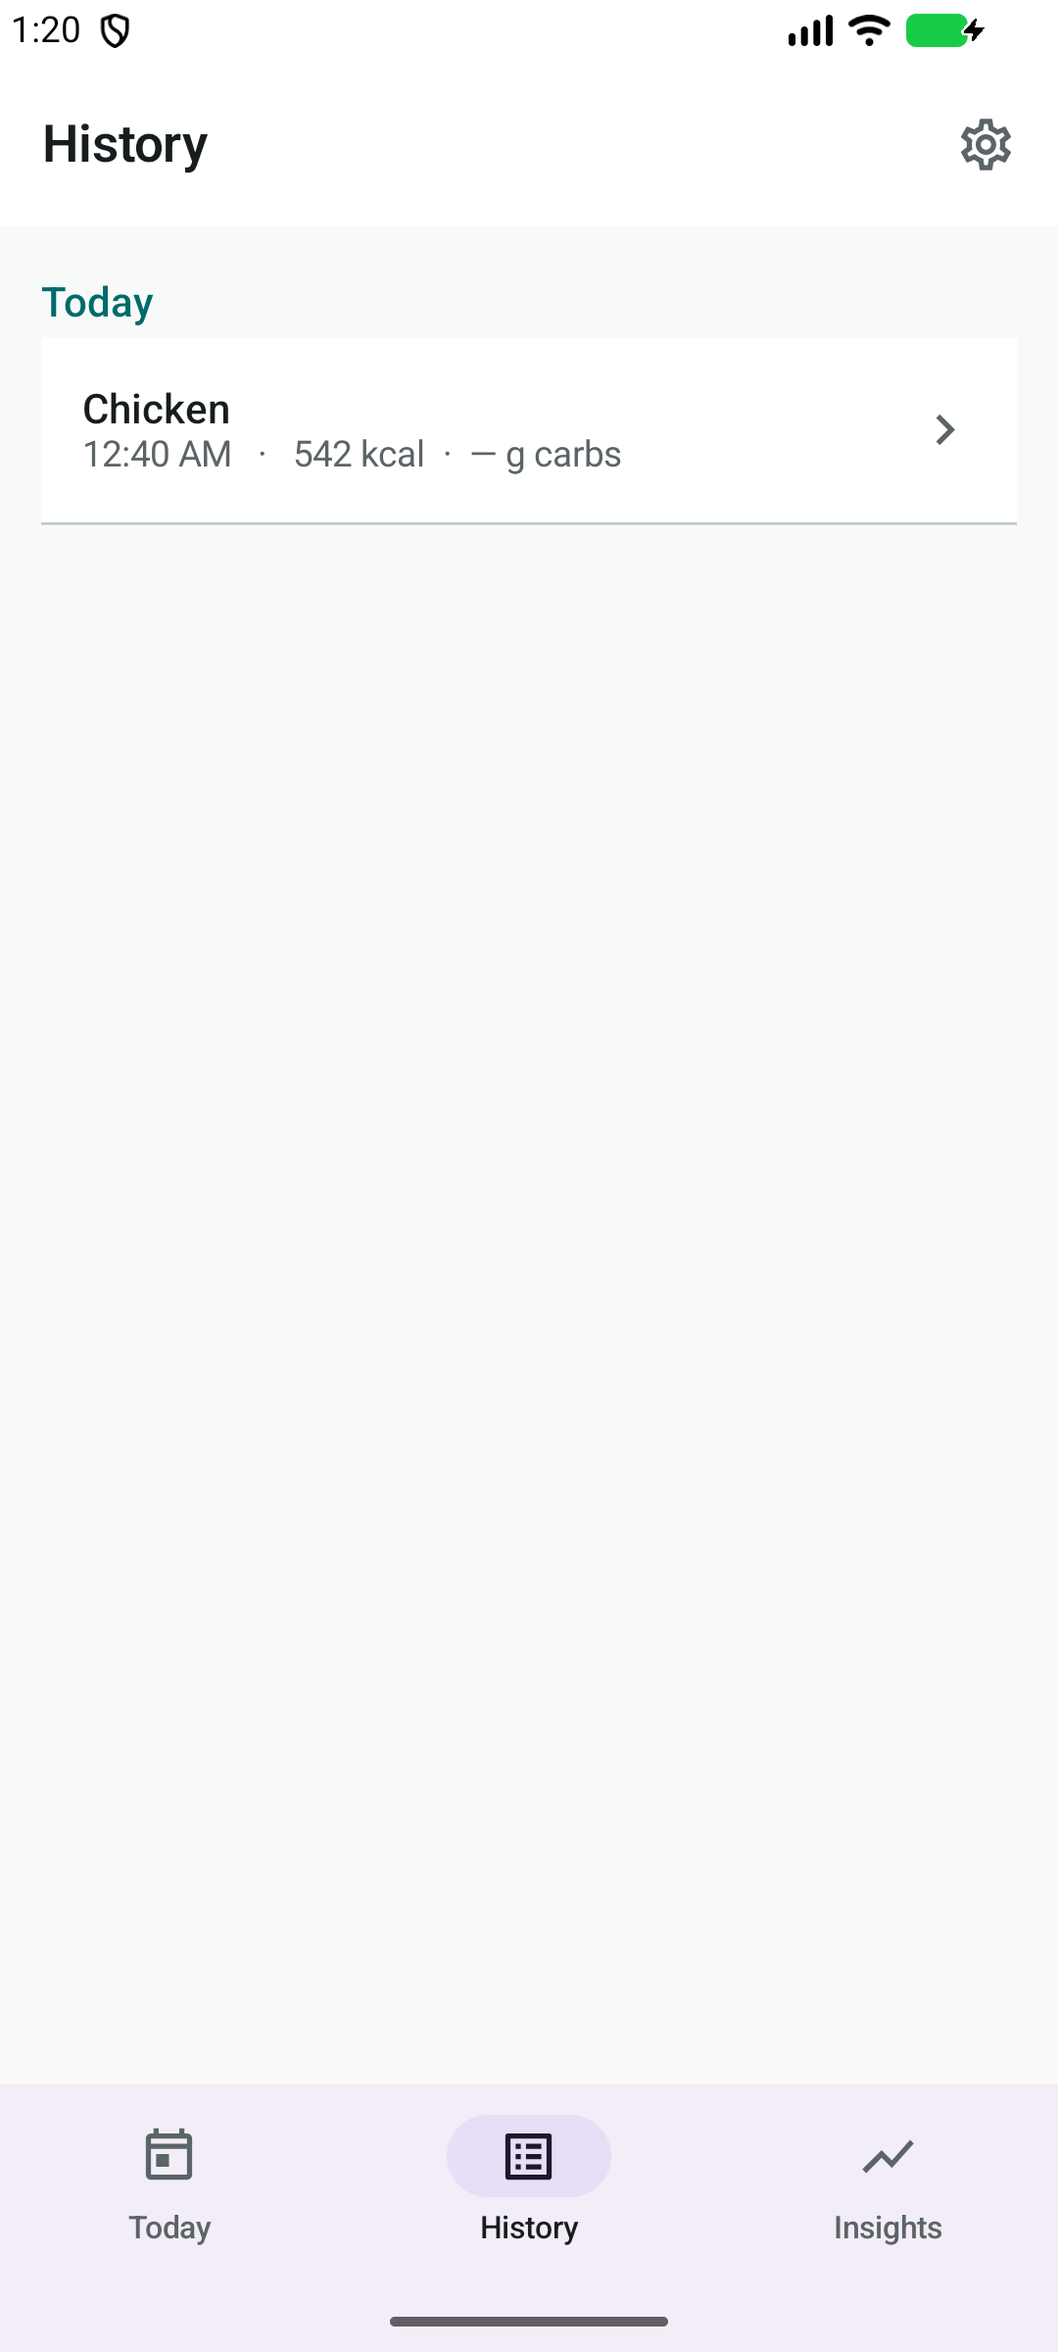
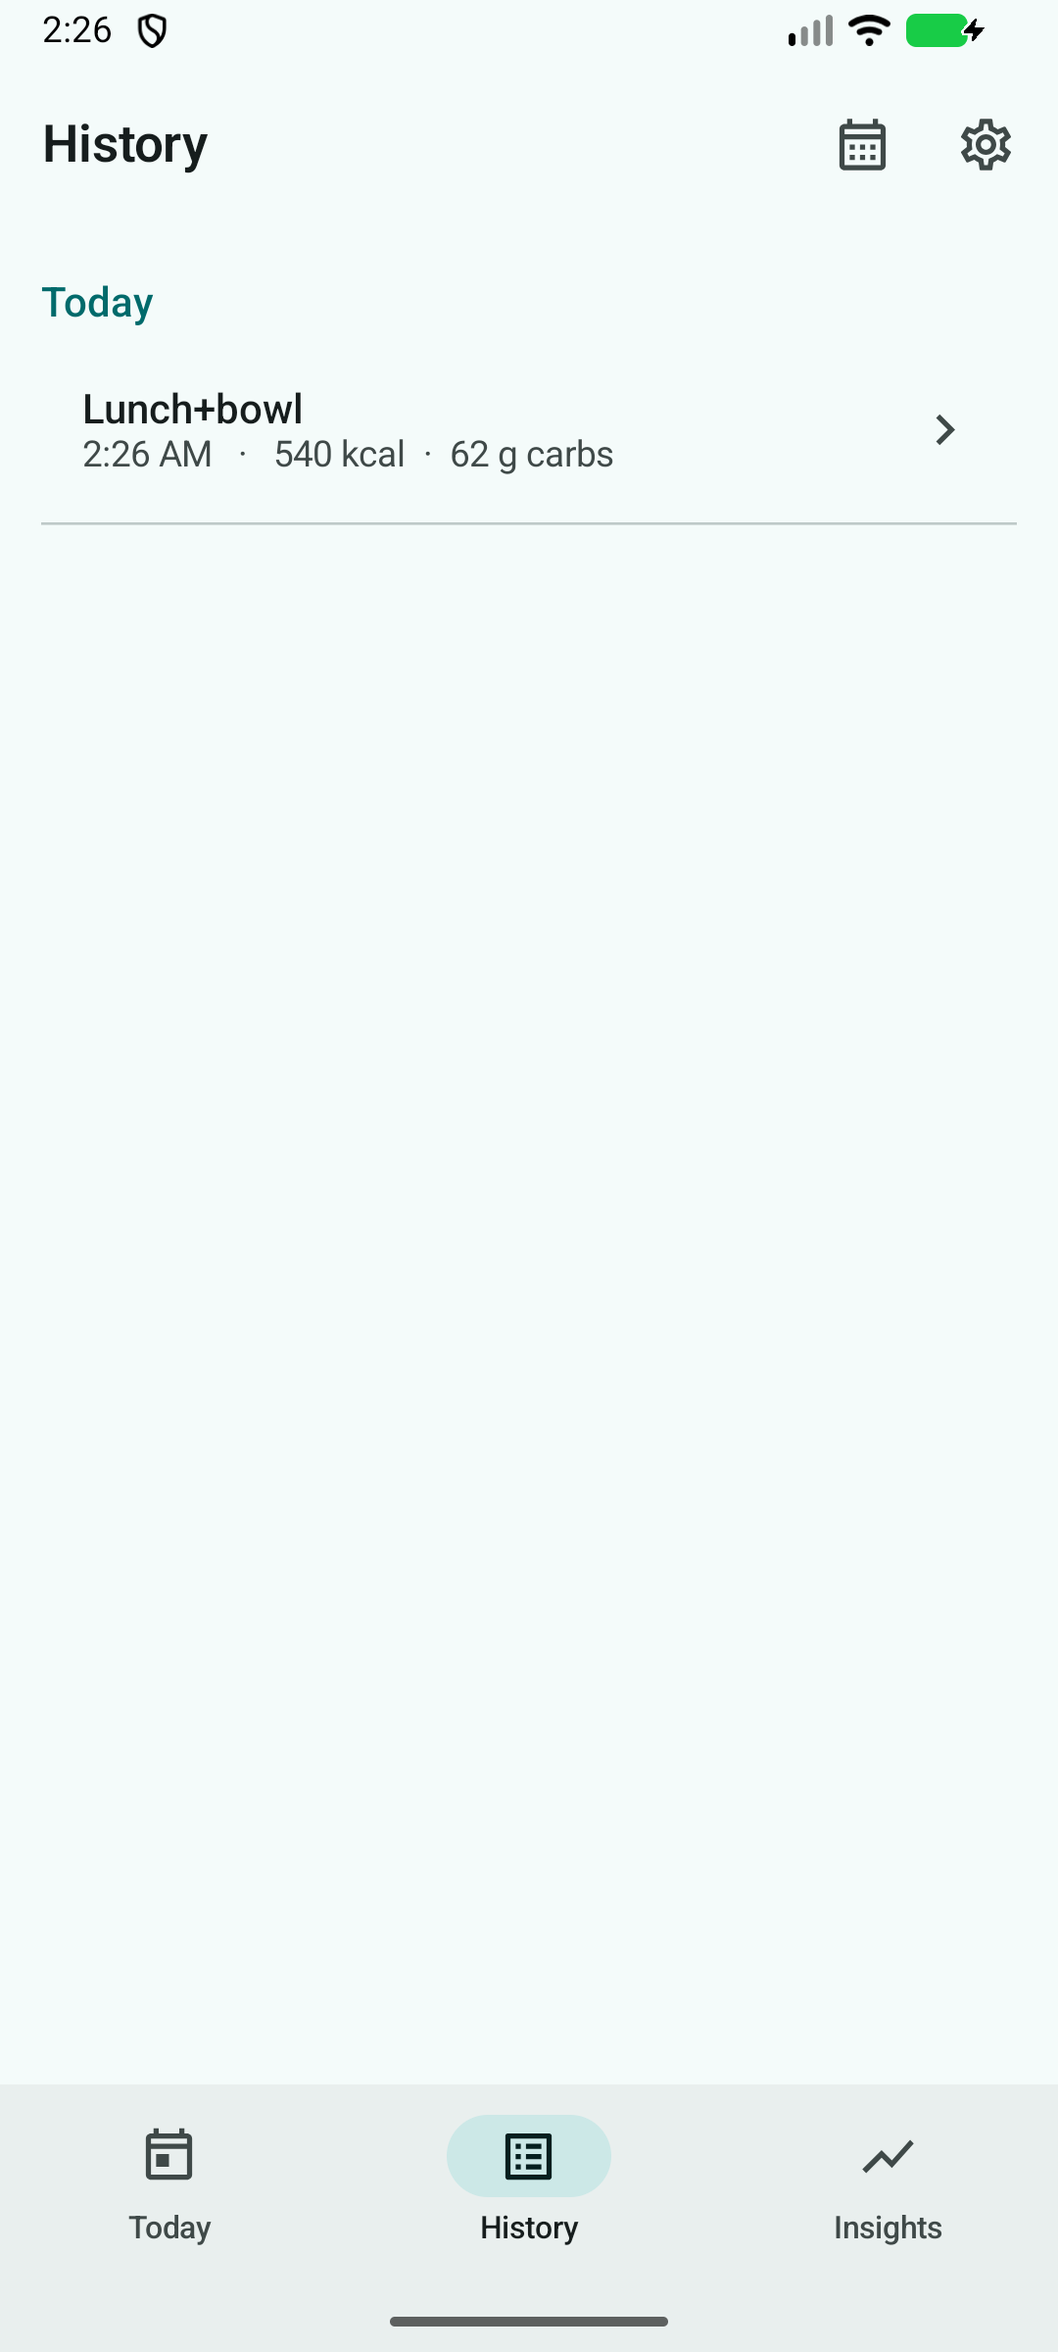
Add History date filter and a blank glucose boundary
History: a date-filter action in the app bar opens a date picker to show a
single day; a clearable chip reflects the active filter, an honest "no meals on
this day" state offers to clear it, and the filter icon is disabled when there
is no history. The list uses a remembered LazyColumn state.

Glucose: add a typed GlucosePredictor boundary as a blank reference —
Unavailable / MissingInput / Failed outcomes with only an
UnavailableGlucosePredictor today, wired through AppGraph and read by Insights
(still an honest unavailable state, nothing simulated). A real model drops in
behind the same interface later.

Tests: HistoryViewModelTest covers the filter, the filtered-empty state, and
timezone-aware day grouping (a UTC instant grouped by a New York clock lands on
the previous local day). Design doc records measured WCAG contrast (all >= AA)
and the glucose boundary. testDebugUnitTest 80, 0 skipped; lintDebug clean.

diff --git a/android/app/src/main/java/com/example/guione/meal/ui/HistoryScreen.kt b/android/app/src/main/java/com/example/guione/meal/ui/HistoryScreen.kt
@@ -1,30 +1,44 @@
 package com.example.guione.meal.ui
 
-import androidx.compose.foundation.layout.Box
+import androidx.compose.foundation.layout.Row
 import androidx.compose.foundation.layout.fillMaxSize
 import androidx.compose.foundation.layout.fillMaxWidth
 import androidx.compose.foundation.layout.padding
 import androidx.compose.foundation.lazy.LazyColumn
 import androidx.compose.foundation.lazy.items
+import androidx.compose.foundation.lazy.rememberLazyListState
 import androidx.compose.material.icons.Icons
 import androidx.compose.material.icons.automirrored.outlined.ListAlt
+import androidx.compose.material.icons.outlined.CalendarMonth
+import androidx.compose.material.icons.outlined.Close
 import androidx.compose.material.icons.outlined.Settings
+import androidx.compose.material3.DatePicker
+import androidx.compose.material3.DatePickerDialog
 import androidx.compose.material3.ExperimentalMaterial3Api
+import androidx.compose.material3.FilterChip
 import androidx.compose.material3.HorizontalDivider
 import androidx.compose.material3.Icon
 import androidx.compose.material3.IconButton
 import androidx.compose.material3.MaterialTheme
 import androidx.compose.material3.Scaffold
 import androidx.compose.material3.Text
+import androidx.compose.material3.TextButton
 import androidx.compose.material3.TopAppBar
+import androidx.compose.material3.rememberDatePickerState
 import androidx.compose.runtime.Composable
 import androidx.compose.runtime.getValue
+import androidx.compose.runtime.mutableStateOf
+import androidx.compose.runtime.remember
+import androidx.compose.runtime.setValue
 import androidx.compose.ui.Modifier
-import androidx.compose.ui.unit.dp
 import androidx.lifecycle.compose.collectAsStateWithLifecycle
 import com.example.guione.meal.AppGraph
+import com.example.guione.ui.Format
 import com.example.guione.ui.components.EmptyState
 import com.example.guione.ui.theme.Spacing
+import java.time.Instant
+import java.time.LocalDate
+import java.time.ZoneOffset
 
 @OptIn(ExperimentalMaterial3Api::class)
 @Composable
@@ -36,12 +50,17 @@ fun HistoryScreen(
     val vm = rememberHistoryViewModel()
     val state by vm.ui.collectAsStateWithLifecycle()
     val zone = AppGraph.clock.zone
+    val listState = rememberLazyListState()
+    var showPicker by remember { mutableStateOf(false) }
 
     Scaffold(
         topBar = {
             TopAppBar(
                 title = { Text("History") },
                 actions = {
+                    IconButton(onClick = { showPicker = true }, enabled = state.datesWithMeals.isNotEmpty()) {
+                        Icon(Icons.Outlined.CalendarMonth, contentDescription = "Filter by date")
+                    }
                     IconButton(onClick = onOpenSettings) {
                         Icon(Icons.Outlined.Settings, contentDescription = "Settings")
                     }
@@ -50,7 +69,7 @@ fun HistoryScreen(
         },
         bottomBar = bottomBar,
     ) { padding ->
-        if (!state.loading && state.groups.isEmpty()) {
+        if (!state.loading && state.datesWithMeals.isEmpty()) {
             EmptyState(
                 icon = Icons.AutoMirrored.Outlined.ListAlt,
                 title = "No history yet",
@@ -60,26 +79,69 @@ fun HistoryScreen(
             return@Scaffold
         }
 
-        LazyColumn(
-            modifier = Modifier.fillMaxSize().padding(padding),
-            contentPadding = androidx.compose.foundation.layout.PaddingValues(
-                start = Spacing.lg, end = Spacing.lg, top = Spacing.sm, bottom = Spacing.xxl,
-            ),
-        ) {
-            state.groups.forEach { group ->
-                item(key = "header-${group.date}") {
-                    Text(
-                        group.header,
-                        style = MaterialTheme.typography.titleMedium,
-                        color = MaterialTheme.colorScheme.primary,
-                        modifier = Modifier.fillMaxWidth().padding(top = Spacing.md, bottom = Spacing.xs),
+        androidx.compose.foundation.layout.Column(Modifier.padding(padding).fillMaxSize()) {
+            state.filterDate?.let { date ->
+                Row(Modifier.fillMaxWidth().padding(horizontal = Spacing.lg, vertical = Spacing.sm)) {
+                    FilterChip(
+                        selected = true,
+                        onClick = { vm.setFilter(null) },
+                        label = { Text(Format.relativeDate(date, LocalDate.now(AppGraph.clock))) },
+                        trailingIcon = { Icon(Icons.Outlined.Close, contentDescription = "Clear filter") },
                     )
                 }
-                items(group.items, key = { it.id }) { item ->
-                    MealRow(item = item, zone = zone, onClick = { onOpenMeal(item.id) })
-                    HorizontalDivider(color = MaterialTheme.colorScheme.outlineVariant)
+            }
+
+            if (state.filteredEmpty) {
+                EmptyState(
+                    icon = Icons.Outlined.CalendarMonth,
+                    title = "No meals on this day",
+                    message = "Pick another day or clear the filter.",
+                    actionLabel = "Clear filter",
+                    onAction = { vm.setFilter(null) },
+                )
+            } else {
+                LazyColumn(
+                    state = listState,
+                    modifier = Modifier.fillMaxSize(),
+                    contentPadding = androidx.compose.foundation.layout.PaddingValues(
+                        start = Spacing.lg, end = Spacing.lg, top = Spacing.sm, bottom = Spacing.xxl,
+                    ),
+                ) {
+                    state.groups.forEach { group ->
+                        item(key = "header-${group.date}") {
+                            Text(
+                                group.header,
+                                style = MaterialTheme.typography.titleMedium,
+                                color = MaterialTheme.colorScheme.primary,
+                                modifier = Modifier.fillMaxWidth().padding(top = Spacing.md, bottom = Spacing.xs),
+                            )
+                        }
+                        items(group.items, key = { it.id }) { item ->
+                            MealRow(item = item, zone = zone, onClick = { onOpenMeal(item.id) })
+                            HorizontalDivider(color = MaterialTheme.colorScheme.outlineVariant)
+                        }
+                    }
                 }
             }
         }
+    }
+
+    if (showPicker) {
+        val pickerState = rememberDatePickerState(
+            initialSelectedDateMillis = (state.filterDate ?: LocalDate.now(AppGraph.clock))
+                .atStartOfDay().toInstant(ZoneOffset.UTC).toEpochMilli(),
+        )
+        DatePickerDialog(
+            onDismissRequest = { showPicker = false },
+            confirmButton = {
+                TextButton(onClick = {
+                    pickerState.selectedDateMillis?.let { millis ->
+                        vm.setFilter(Instant.ofEpochMilli(millis).atOffset(ZoneOffset.UTC).toLocalDate())
+                    }
+                    showPicker = false
+                }) { Text("Show day") }
+            },
+            dismissButton = { TextButton(onClick = { showPicker = false }) { Text("Cancel") } },
+        ) { DatePicker(state = pickerState) }
     }
 }

diff --git a/android/app/src/test/java/com/example/guione/meal/ui/HistoryViewModelTest.kt b/android/app/src/test/java/com/example/guione/meal/ui/HistoryViewModelTest.kt
@@ -13,6 +13,7 @@ import kotlinx.coroutines.test.runTest
 import kotlinx.coroutines.test.setMain
 import org.junit.After
 import org.junit.Assert.assertEquals
+import org.junit.Assert.assertTrue
 import org.junit.Before
 import org.junit.Test
 import java.time.Clock
@@ -52,5 +53,42 @@ class HistoryViewModelTest {
         assertEquals(2, groups.first().items.size)   // A and C are today
         assertEquals("Yesterday", groups[1].header)
         assertEquals(1, groups[1].items.size)
+    }
+
+    @Test fun `filter shows only the selected day`() = runTest(dispatcher) {
+        repo.saveManualMeal(MealInput.Valid("A", Nutrition(carbsGrams = 10.0), today, ZoneOffset.UTC), "a", "ar")
+        repo.saveManualMeal(MealInput.Valid("B", Nutrition(carbsGrams = 20.0), today.minusSeconds(60L * 60 * 24), ZoneOffset.UTC), "b", "br")
+        val vm = HistoryViewModel(repo, clock)
+        backgroundScope.launch { vm.ui.collect {} }
+        advanceUntilIdle()
+
+        vm.setFilter(java.time.LocalDate.of(2026, 1, 15)) // the "today" date
+        advanceUntilIdle()
+        assertEquals(1, vm.ui.value.groups.size)
+        assertEquals(1, vm.ui.value.groups.first().items.size)
+        assertEquals("A", vm.ui.value.groups.first().items.first().name)
+    }
+
+    @Test fun `filter to a day with no meals reports filteredEmpty`() = runTest(dispatcher) {
+        repo.saveManualMeal(MealInput.Valid("A", Nutrition(carbsGrams = 10.0), today, ZoneOffset.UTC), "a", "ar")
+        val vm = HistoryViewModel(repo, clock)
+        backgroundScope.launch { vm.ui.collect {} }
+        advanceUntilIdle()
+
+        vm.setFilter(java.time.LocalDate.of(2020, 1, 1))
+        advanceUntilIdle()
+        assertTrue(vm.ui.value.filteredEmpty)
+        assertTrue(vm.ui.value.groups.isEmpty())
+    }
+
+    @Test fun `grouping follows the clock zone, not UTC`() = runTest(dispatcher) {
+        // 02:30 UTC on Jan 15 is still Jan 14 at 21:30 in New York.
+        val instant = Instant.parse("2026-01-15T02:30:00Z")
+        repo.saveManualMeal(MealInput.Valid("Late dinner", Nutrition(carbsGrams = 30.0), instant, ZoneOffset.UTC), "m", "r")
+        val nyClock = Clock.fixed(Instant.parse("2026-01-15T18:00:00Z"), ZoneId.of("America/New_York"))
+        val vm = HistoryViewModel(repo, nyClock)
+        backgroundScope.launch { vm.ui.collect {} }
+        advanceUntilIdle()
+        assertEquals(java.time.LocalDate.of(2026, 1, 14), vm.ui.value.groups.first().date)
     }
 }

diff --git a/android/app/src/main/java/com/example/guione/meal/ui/HistoryViewModel.kt b/android/app/src/main/java/com/example/guione/meal/ui/HistoryViewModel.kt
@@ -5,8 +5,9 @@ import androidx.lifecycle.viewModelScope
 import com.example.guione.meal.MealListItem
 import com.example.guione.meal.MealRepository
 import com.example.guione.ui.Format
+import kotlinx.coroutines.flow.MutableStateFlow
 import kotlinx.coroutines.flow.SharingStarted
-import kotlinx.coroutines.flow.map
+import kotlinx.coroutines.flow.combine
 import kotlinx.coroutines.flow.stateIn
 import java.time.Clock
 import java.time.LocalDate
@@ -27,17 +28,37 @@ class HistoryViewModel(
     data class UiState(
         val loading: Boolean = true,
         val groups: List<DayGroup> = emptyList(),
+        /** When set, only this day is shown. */
+        val filterDate: LocalDate? = null,
+        /** Dates that have at least one meal, newest first — for the date picker. */
+        val datesWithMeals: Set<LocalDate> = emptySet(),
+        /** True when there are meals but the current filter hides them all. */
+        val filteredEmpty: Boolean = false,
     )
 
+    private val filter = MutableStateFlow<LocalDate?>(null)
+
+    /** Filter History to a single day, or clear with null. */
+    fun setFilter(date: LocalDate?) {
+        filter.value = date
+    }
+
     val ui =
-        repository.observeMeals().map { meals ->
+        combine(repository.observeMeals(), filter) { meals, filterDate ->
             val today = LocalDate.now(clock)
-            val groups = meals
-                .groupBy { it.occurredAt.atZone(clock.zone).toLocalDate() }
+            val byDay = meals.groupBy { it.occurredAt.atZone(clock.zone).toLocalDate() }
+            val shown = if (filterDate == null) byDay else byDay.filterKeys { it == filterDate }
+            val groups = shown
                 .toSortedMap(compareByDescending { it })
                 .map { (date, items) ->
                     DayGroup(date, Format.relativeDate(date, today), items.sortedByDescending { it.occurredAt })
                 }
-            UiState(loading = false, groups = groups)
+            UiState(
+                loading = false,
+                groups = groups,
+                filterDate = filterDate,
+                datesWithMeals = byDay.keys,
+                filteredEmpty = meals.isNotEmpty() && groups.isEmpty(),
+            )
         }.stateIn(viewModelScope, SharingStarted.WhileSubscribed(5_000), UiState())
 }

diff --git a/android/app/src/main/java/com/example/guione/meal/glucose/GlucosePredictor.kt b/android/app/src/main/java/com/example/guione/meal/glucose/GlucosePredictor.kt
@@ -1,0 +1,49 @@
+package com.example.guione.meal.glucose
+
+/**
+ * Versioned, typed boundary for glucose forecasting — a deliberately blank
+ * reference for now.
+ *
+ * The real on-device glucose model and its input contract (ordered features,
+ * units, required history, horizon) are not yet available, so the only
+ * implementation is [UnavailableGlucosePredictor], which always reports
+ * [GlucoseResult.Unavailable]. Nothing is simulated. When the model and its
+ * contract arrive, add the concrete inputs to [GlucoseRequest], a
+ * `Forecast` case to [GlucoseResult], and a real implementation behind this same
+ * interface; no caller needs to change to keep showing an honest state.
+ */
+interface GlucosePredictor {
+    /** Model/contract version, or "none" when unavailable. */
+    val version: String
+
+    /** False until a validated model and contract are installed. */
+    val isAvailable: Boolean
+
+    suspend fun predict(request: GlucoseRequest): GlucoseResult
+}
+
+/**
+ * Placeholder request. The exact inputs are defined by the professor's model
+ * contract and are intentionally not guessed here; for now it only references
+ * the meal revision a forecast would be tied to.
+ */
+data class GlucoseRequest(val mealRevisionId: String)
+
+/** Explicit outcomes. A `Forecast` case is added once the output contract is known. */
+sealed interface GlucoseResult {
+    /** No model/contract installed. */
+    data object Unavailable : GlucoseResult
+
+    /** The contract's required inputs are missing or stale. */
+    data class MissingInput(val reason: String) : GlucoseResult
+
+    /** The model ran but failed; a meal still saves regardless. */
+    data class Failed(val reason: String) : GlucoseResult
+}
+
+/** The only implementation today: always unavailable, never fabricated. */
+object UnavailableGlucosePredictor : GlucosePredictor {
+    override val version: String = "none"
+    override val isAvailable: Boolean = false
+    override suspend fun predict(request: GlucoseRequest): GlucoseResult = GlucoseResult.Unavailable
+}

diff --git a/android/app/src/main/java/com/example/guione/meal/AppGraph.kt b/android/app/src/main/java/com/example/guione/meal/AppGraph.kt
@@ -3,6 +3,8 @@ package com.example.guione.meal
 import android.content.Context
 import com.example.guione.meal.db.MealDatabase
 import com.example.guione.meal.db.RoomMealRepository
+import com.example.guione.meal.glucose.GlucosePredictor
+import com.example.guione.meal.glucose.UnavailableGlucosePredictor
 import java.time.Clock
 
 /**
@@ -21,6 +23,15 @@ object AppGraph {
     /** Process clock for day boundaries, freshness, and timestamps; overridable in tests. */
     @Volatile
     var clock: Clock = Clock.systemDefaultZone()
+        private set
+
+    /**
+     * Glucose forecasting boundary. A blank reference today
+     * ([UnavailableGlucosePredictor]); swap in a real implementation here once
+     * the professor's model and its contract are available.
+     */
+    @Volatile
+    var glucosePredictor: GlucosePredictor = UnavailableGlucosePredictor
         private set
 
     fun mealRepository(context: Context): MealRepository =

diff --git a/android/app/src/main/java/com/example/guione/meal/ui/InsightsScreen.kt b/android/app/src/main/java/com/example/guione/meal/ui/InsightsScreen.kt
@@ -33,8 +33,11 @@ fun InsightsScreen(
         },
         bottomBar = bottomBar,
     ) { padding ->
-        // Honest unavailable state: no glucose model or readings are integrated,
-        // so there is nothing to chart. No placeholder curves or invented axes.
+        // Read the glucose boundary. Today it is always unavailable (a blank
+        // reference); when a real predictor is installed this branch renders its
+        // forecasts instead of the empty state. No placeholder curves meanwhile.
+        @Suppress("UNUSED_VARIABLE")
+        val available = com.example.guione.meal.AppGraph.glucosePredictor.isAvailable
         EmptyState(
             icon = Icons.AutoMirrored.Outlined.ShowChart,
             title = "No insights available yet",

diff --git a/docs/design/android-ui.md b/docs/design/android-ui.md
@@ -93,6 +93,30 @@ on the emulator.
 | History | ![History](screenshots/history.png) |
 | Settings | ![Settings](screenshots/settings.png) |
 
+## Contrast (measured)
+
+WCAG contrast ratios for the key foreground/background pairs, computed from the
+actual token values. All meet AA (>= 4.5:1 for normal text); most are AAA.
+
+| Pair | Light | Dark |
+|---|---:|---:|
+| Body text on surface | 16.3 | 14.3 |
+| Secondary text on surface | 8.9 | 10.9 |
+| Teal accent on surface | 6.1 | 10.8 |
+| Button label on primary | 6.4 | 7.7 |
+| Nav selected label on indicator | 13.3 | 7.3 |
+| Error on surface | 6.2 | 10.9 |
+
+## Glucose boundary
+
+Glucose forecasting is a typed but **blank reference** for now:
+`com.example.guione.meal.glucose.GlucosePredictor` with explicit
+`Unavailable` / `MissingInput` / `Failed` outcomes and only an
+`UnavailableGlucosePredictor` implementation, wired through `AppGraph`. Insights
+reads it and shows an honest unavailable state; nothing is simulated. When the
+model and its input contract arrive, a real implementation and a `Forecast` case
+drop in behind the same interface.
+
 ## Color roles and system bars
 
 Every Material role is defined for both themes from the teal/slate palette, so
